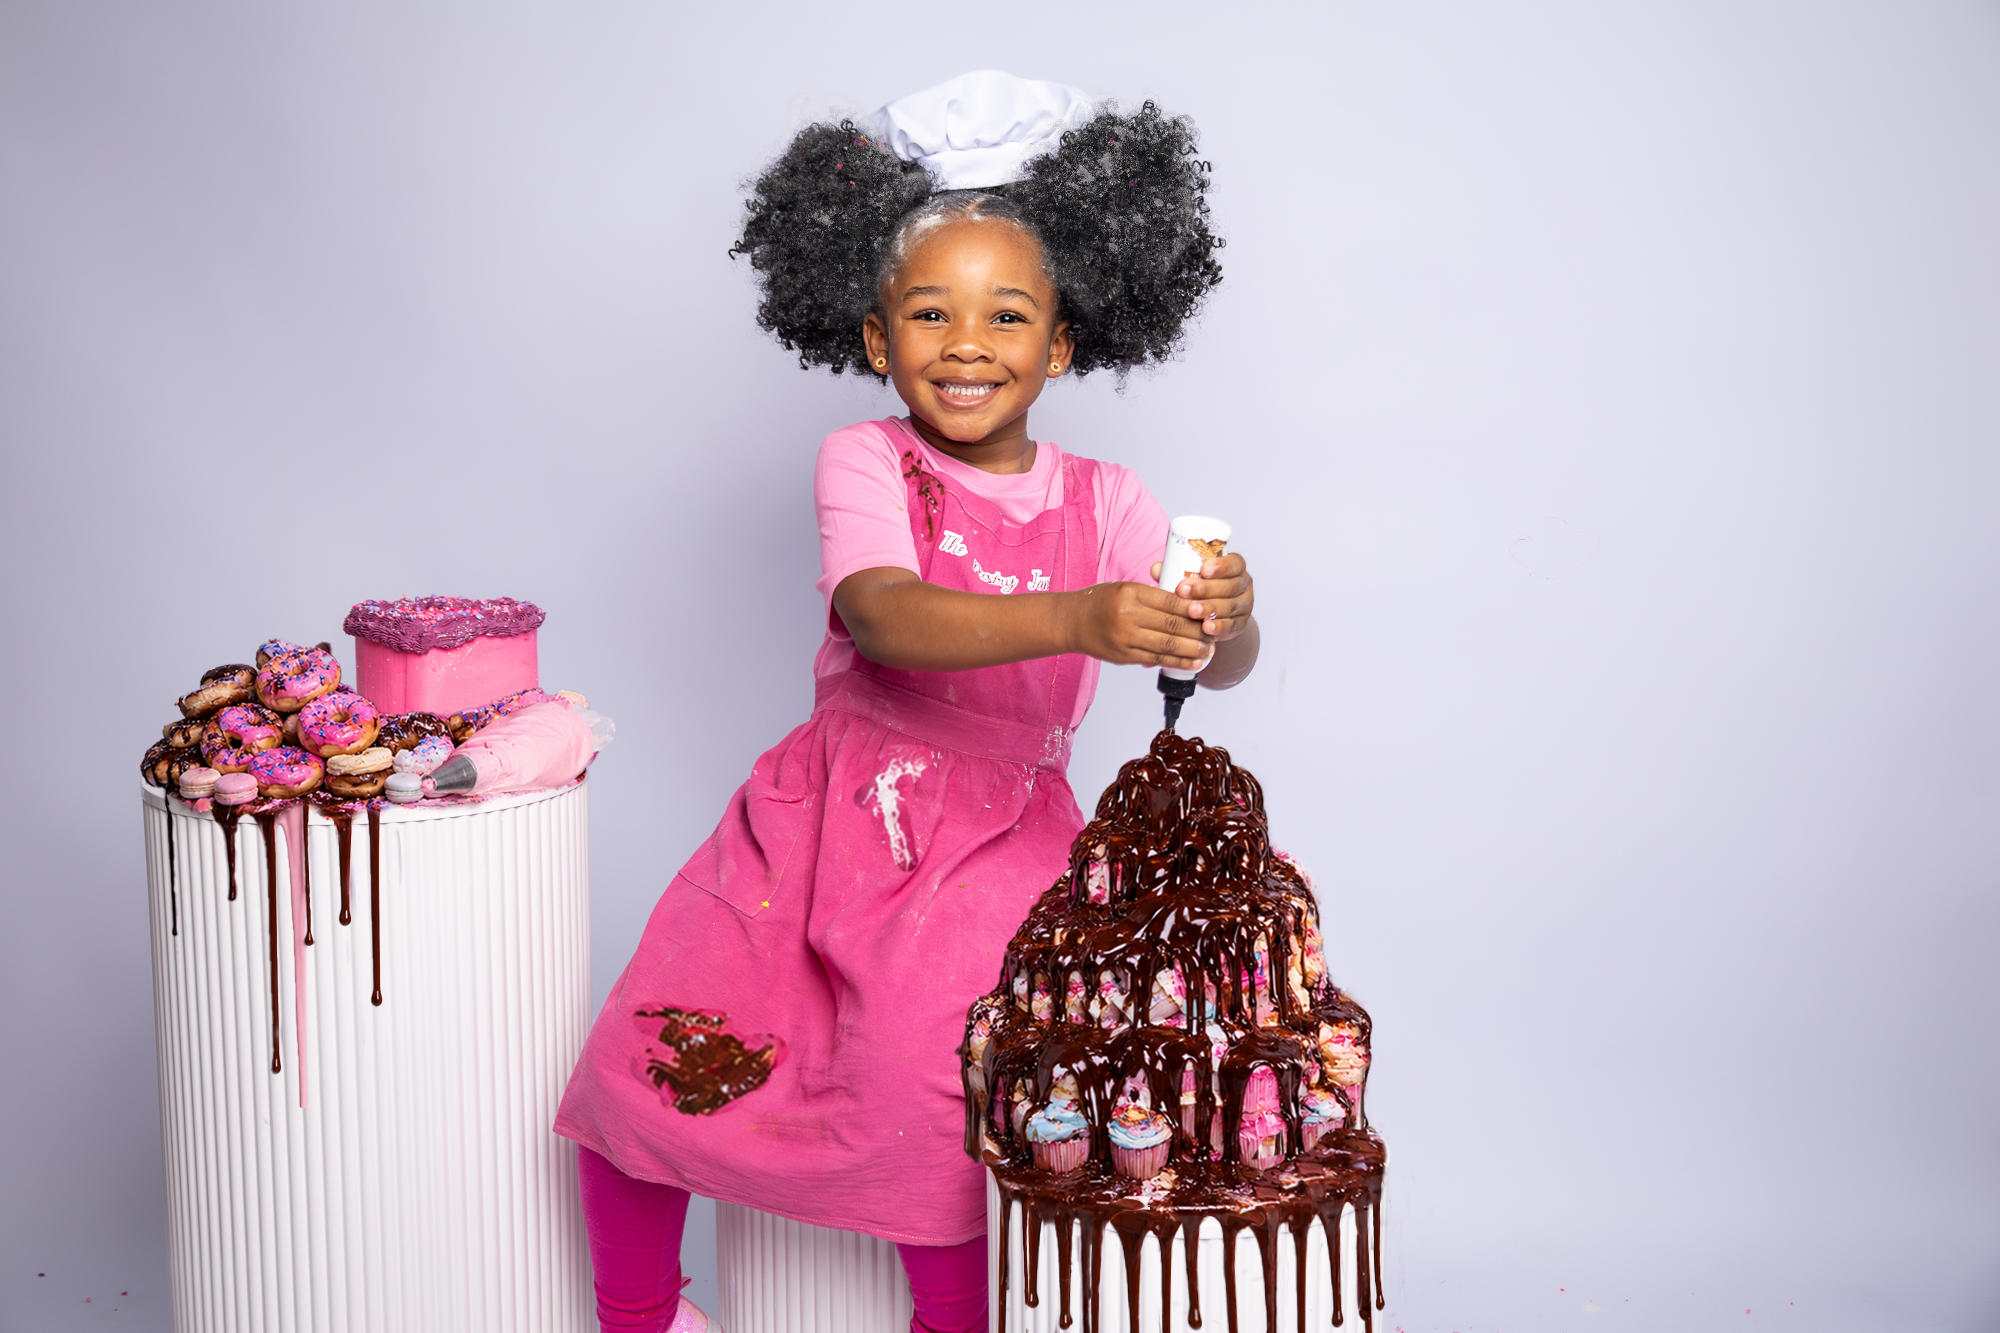
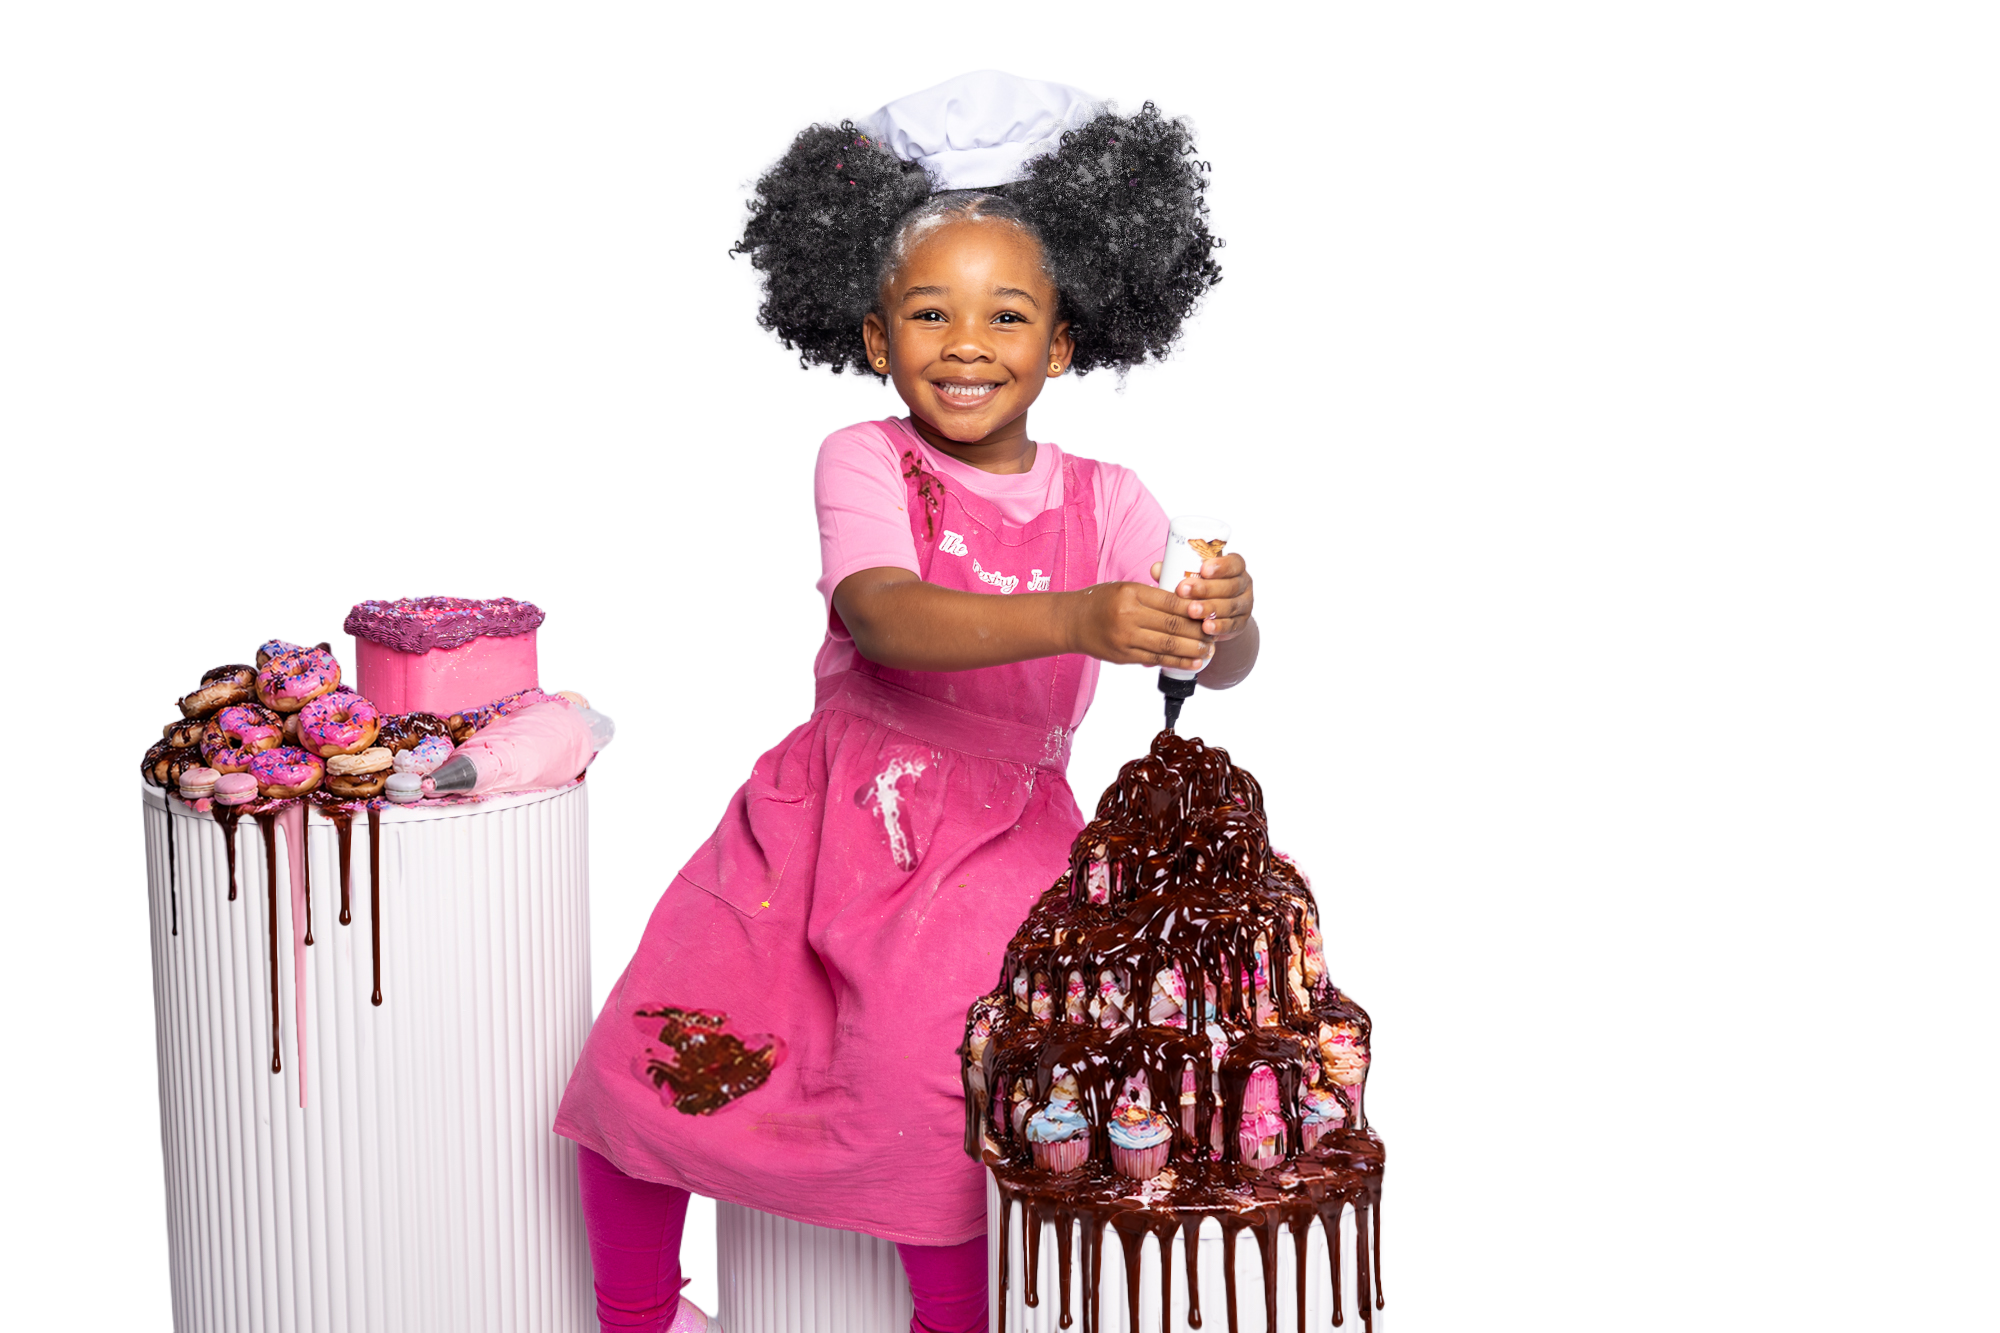
header done

diff --git a/shop.css b/shop.css
@@ -3535,3 +3535,131 @@ body.shop-page .chocolate-collection-product-copy h3 {
     aspect-ratio: 1;
   }
 }
+/* HERO — Finished Autumn banner */
+
+body.shop-page .tpj-banner {
+  position: relative;
+  display: block;
+  width: auto;
+  max-width: none;
+  min-height: 0;
+  margin: 0;
+  padding: 0;
+  overflow: hidden;
+  background: #f5e9e6;
+  container-type: inline-size;
+}
+
+body.shop-page .tpj-banner-image {
+  display: block;
+  width: 100%;
+  max-width: none;
+  height: auto;
+  margin: 0;
+  padding: 0;
+}
+
+body.shop-page .tpj-banner-copy {
+  position: absolute;
+  top: 12%;
+  left: 5%;
+  width: 43%;
+  box-sizing: border-box;
+  margin: 0;
+  padding: 0;
+  text-align: center;
+  color: #421a12;
+}
+
+body.shop-page .tpj-banner-eyebrow {
+  margin: 0 0 1.2cqw;
+  font-size: clamp(9px, 0.85cqw, 15px);
+  font-weight: 800;
+  line-height: 1.5;
+  letter-spacing: 0.14em;
+  text-transform: uppercase;
+}
+
+body.shop-page .tpj-banner-title {
+  margin: 0;
+  padding: 0;
+  font-family: "Lilita One", sans-serif;
+  font-size: clamp(28px, 3.65cqw, 76px);
+  font-weight: 400;
+  line-height: 1.05;
+  letter-spacing: -0.025em;
+  text-transform: uppercase;
+  color: #421a12;
+  text-shadow: none;
+}
+
+body.shop-page .tpj-banner-title span {
+  display: block;
+  margin-top: 0.3cqw;
+  color: #ed0870;
+}
+
+body.shop-page .tpj-banner-description {
+  width: 90%;
+  max-width: 460px;
+  margin: 1.25cqw auto 0;
+  font-size: clamp(11px, 1.05cqw, 19px);
+  line-height: 1.6;
+  color: #542e26;
+}
+
+body.shop-page .tpj-banner-handwriting {
+  margin: 0.8cqw 0 0;
+  font-family: "Caveat", cursive;
+  font-size: clamp(22px, 2.3cqw, 44px);
+  font-weight: 700;
+  line-height: 1.15;
+  color: #d71969;
+}
+
+/* Matches the existing desktop main zoom */
+@media (min-width: 1200px) {
+  body.shop-page .tpj-banner {
+    zoom: 2;
+  }
+}
+
+/* Phones: centered text above the complete banner */
+@media (max-width: 700px) {
+  body.shop-page .tpj-banner {
+    display: flex;
+    flex-direction: column;
+  }
+
+  body.shop-page .tpj-banner-copy {
+    position: static;
+    order: -1;
+    width: 100%;
+    padding: 32px 20px 24px;
+  }
+
+  body.shop-page .tpj-banner-eyebrow {
+    margin-bottom: 14px;
+    font-size: 10px;
+  }
+
+  body.shop-page .tpj-banner-title {
+    font-size: clamp(30px, 7.5vw, 48px);
+  }
+
+  body.shop-page .tpj-banner-title span {
+    margin-top: 4px;
+  }
+
+  body.shop-page .tpj-banner-description {
+    width: 100%;
+    max-width: 370px;
+    margin-top: 16px;
+    font-size: 14px;
+  }
+
+  body.shop-page .tpj-banner-handwriting {
+    margin-top: 12px;
+    font-size: 30px;
+  }
+}

diff --git a/pages/shop.html b/pages/shop.html
@@ -148,56 +148,36 @@
              SHOP INTRO
         ========================================== -->
 
-        <section class="shop-hero">
+<section class="tpj-banner" aria-labelledby="tpj-banner-title">
+  <img
+    class="tpj-banner-image"
+    src="../images/Shop/autumn-hero.png"
+    alt="Our young baker pouring chocolate over cupcakes, surrounded by chocolate ribbons and strawberries."
+    width="2047"
+    height="699"
+    fetchpriority="high"
+  >
 
-            <div
-                class="shop-hero-sprinkle shop-hero-sprinkle-one"
-                aria-hidden="true"
-            ></div>
+  <div class="tpj-banner-copy">
+    <p class="tpj-banner-eyebrow">
+      The Loaded Side of The Pastry Junkie
+    </p>
 
-            <div
-                class="shop-hero-sprinkle shop-hero-sprinkle-two"
-                aria-hidden="true"
-            ></div>
+    <h1 id="tpj-banner-title" class="tpj-banner-title">
+      Desserts Made
+      <span>To Obsess Over.</span>
+    </h1>
 
-            <div
-                class="shop-hero-sprinkle shop-hero-sprinkle-three"
-                aria-hidden="true"
-            ></div>
+    <p class="tpj-banner-description">
+      Loaded, layered and unapologetically extra.
+      This is where the sweet-tooth behavior begins.
+    </p>
 
-            <div class="shop-hero-inner">
-
-                <p class="shop-hero-eyebrow">
-                    The Loaded Side Of The Pastry Junkie
-                </p>
-
-                <h1 class="shop-hero-title">
-
-                    <span class="shop-hero-title-pink">
-                        Desserts Made
-                    </span>
-
-                    <span class="shop-hero-title-cream">
-                        To Obsess Over.
-                    </span>
-
-                </h1>
-
-
-                <p class="shop-hero-description">
-                    Loaded, layered and unapologetically extra.
-                    This is where the sweet-tooth behavior begins.
-                </p>
-
-
-                <p class="shop-hero-handwriting">
-                    Pick your weakness.
-                </p>
-
-            </div>
-
-        </section>
-
+    <p class="tpj-banner-handwriting">
+      Pick your weakness.
+    </p>
+  </div>
+</section>
 
         <!-- =========================================
              MENU CONTENT
